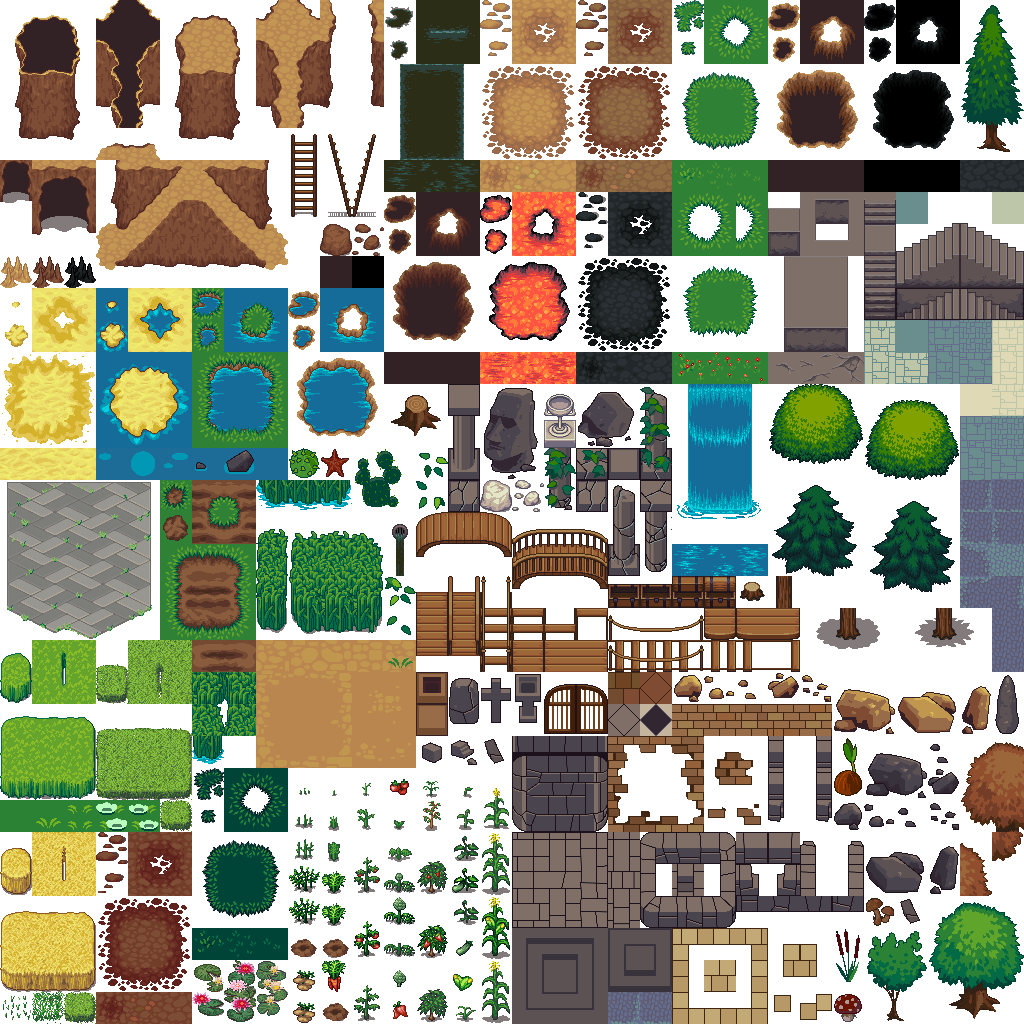
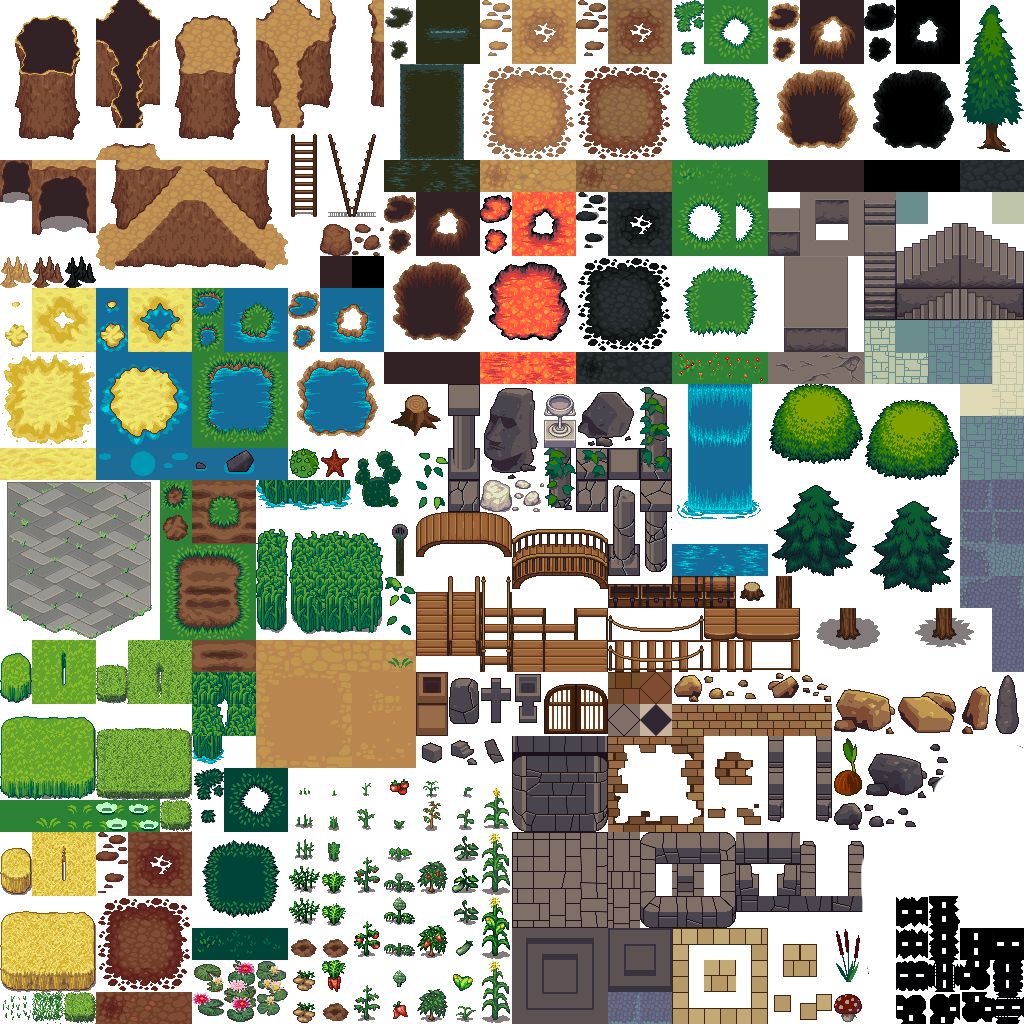
New Map - Attacking fortresses

Changed region(s): [[0.8438, 0.7188, 1.0, 1.0]]

diff --git a/core/assets/tiles.tsx b/core/assets/tiles.tsx
@@ -1,0 +1,4 @@
+<?xml version="1.0" encoding="UTF-8"?>
+<tileset version="1.2" tiledversion="1.3.1" name="tiles" tilewidth="32" tileheight="32" tilecount="1024" columns="32">
+ <image source="tiles.png" width="1024" height="1024"/>
+</tileset>

diff --git a/core/src/com/earlybird/kroygame/screens/MainGameScreen.java b/core/src/com/earlybird/kroygame/screens/MainGameScreen.java
@@ -1,5 +1,6 @@
 package com.earlybird.kroygame.screens;
 
+import java.util.ArrayList;
 import java.util.List;
 
 import com.badlogic.gdx.Gdx;
@@ -10,6 +11,7 @@ import com.badlogic.gdx.graphics.GL20;
 import com.badlogic.gdx.graphics.OrthographicCamera;
 import com.badlogic.gdx.graphics.Texture;
 import com.badlogic.gdx.graphics.g2d.Sprite;
+import com.badlogic.gdx.graphics.g2d.TextureRegion;
 import com.badlogic.gdx.maps.tiled.TiledMap;
 import com.badlogic.gdx.maps.tiled.TmxMapLoader;
 import com.badlogic.gdx.maps.tiled.renderers.OrthogonalTiledMapRenderer;
@@ -30,6 +32,7 @@ import com.earlybird.kroygame.Map;
 import com.earlybird.kroygame.Resources;
 import com.earlybird.kroygame.SelectedEngines;
 import com.earlybird.kroygame.Engine;
+import com.earlybird.kroygame.Fortresses;
 
 
 public class MainGameScreen extends DefaultScreen {
@@ -40,6 +43,7 @@ public class MainGameScreen extends DefaultScreen {
 	private Stage gameStage; //Used as a base to add all sprites to the Game using the scene2D library
 	private Engines engines; //Used to group all fire engines
 	private SelectedEngines selectedEngines; //Allows user to select more than one engine at a time
+	private Fortresses fortresses;
 	
 	
 	private TiledMap map;
@@ -68,28 +72,31 @@ public class MainGameScreen extends DefaultScreen {
 		camera = new OrthographicCamera();
 		camera.setToOrtho(false, scrWidth, scrHeight);
 		camera.update();
-		map = new TmxMapLoader().load("testroadmap.tmx");
+		//map = new TmxMapLoader().load("testroadmap.tmx");
+		map = new TmxMapLoader().load("MapOfYork.tmx");
 		renderer = new OrthogonalTiledMapRenderer(map);
 		roadmap = new Map(this.map);
 		
 		engines = new Engines();
 		selectedEngines= new SelectedEngines();
+		fortresses = new Fortresses();
 		
 		addFireTruck(4,1);
 		addFireTruck(4,12);
 		
-		addFortress(17,6);
+		addFortress(17,6,game.res.fortress1);
 		addFireStation(25,13);
 		
 		gameStage.addActor(engines);
 		gameStage.addActor(selectedEngines);
+		gameStage.addActor(fortresses);
 		
 	}
 
-	public void addFortress(int xTilePos, int yTilePos) { //Renders a Fortress at a specified XY location with a Texture allocated with in Resources.jv
-		Fortress fortress1 = new Fortress(game.res.fortress1);
-		fortress1.setPosition(xTilePos * Resources.TILE_SIZE, yTilePos * Resources.TILE_SIZE);
-		gameStage.addActor(fortress1);
+	public void addFortress(int xTilePos, int yTilePos, TextureRegion texture) { //Renders a Fortress at a specified XY location with a Texture allocated with in Resources.jv
+		Fortress fortress = new Fortress(texture);
+		fortress.setPosition(xTilePos * Resources.TILE_SIZE, yTilePos * Resources.TILE_SIZE);
+		fortresses.addActor(fortress);
 	}
 	
 	public void addFireStation(int xTilePos, int yTilePos) { //Renders a Firestation at a specified XY location with a Texture allocated with in Resources.jv
@@ -110,6 +117,27 @@ public class MainGameScreen extends DefaultScreen {
 		engine.getChild(2).setPosition(0, -10);
 		engine.setPosition(xTilePos * Resources.TILE_SIZE, yTilePos * Resources.TILE_SIZE);
 		engines.addActor(engine);
+	}
+	
+	public List<FireEngine> getEnginesInRange(Group Engines, int leftX, int rightX, int topY, int bottomY){
+		List<FireEngine> enginesInRange = new ArrayList<FireEngine>();
+		for(int i=0; i<Engines.getChildren().size; i++) {
+			Engine thisEngine = (Engine) Engines.getChild(i);
+			FireEngine thisFireEngine = (FireEngine)thisEngine.getChild(0);
+			if(thisFireEngine.isEngineinRange(leftX,rightX,topY,bottomY)){
+				enginesInRange.add(thisFireEngine);
+			}
+		}
+		return enginesInRange;
+	}
+	
+	public void attackFortress(Fortress fortress, FireEngine engine) {
+		if(fortress.getX() >= engine.getX()-engine.getRange() && fortress.getX()<=engine.getX()+engine.getRange() && fortress.getY()>=engine.getY()-engine.getRange() && fortress.getY()<=engine.getY()+engine.getRange()) {
+			if(engine.getCurrentHealth()!=0) {
+				engine.setCurrentVolume(engine.getCurrentVolume()-engine.getDamage());
+				fortress.setCurrentHealth(fortress.getCurrentHealth()-engine.getDamage());
+			}
+		}
 	}
 	
 	public void update(float delta) {
@@ -229,7 +257,6 @@ public class MainGameScreen extends DefaultScreen {
 //							replace 0.2f with engine's speed
 //							setmovelocation of fireengine to lasttouch
 //							or set list of actions
-							write("gg");
 							List<Action> actions = this.roadmap.pathfind(truckcoords, this.lastTouch, 0.2f);
 							for (Action a : actions) {
 								sequence.addAction(a);
@@ -240,6 +267,9 @@ public class MainGameScreen extends DefaultScreen {
 //						------------
 					}
 				}
+				//else if(isFortressClicked()) {
+					
+				//}
 				//move actors in selectedEngines to this.firstTouch
 				//set move location for all actors in selectedEngines
 				return true;

diff --git a/core/src/com/earlybird/kroygame/FireEngine.java b/core/src/com/earlybird/kroygame/FireEngine.java
@@ -21,6 +21,13 @@ public class FireEngine extends Unit {
 		isSelected = false;
 		this.waterBar = new StatBar(40,5, this.getMaxVolume(), Color.BLACK, Color.BLUE, Color.BLUE);
 	}
+	
+	public boolean isEngineinRange(int leftX, int rightX, int topY, int bottomY) {
+		if(this.getX()>=leftX && this.getX()<=rightX && this.getY()>=bottomY && this.getY()<=topY) {
+			return true;
+		}
+		return false;
+	}
 
 	//Getters and Setters
 	

diff --git a/core/src/com/earlybird/kroygame/Entity.java b/core/src/com/earlybird/kroygame/Entity.java
@@ -4,6 +4,7 @@ import com.badlogic.gdx.graphics.g2d.Batch;
 import com.badlogic.gdx.graphics.g2d.Sprite;
 import com.badlogic.gdx.graphics.g2d.TextureRegion;
 import com.badlogic.gdx.scenes.scene2d.Actor;
+import com.badlogic.gdx.scenes.scene2d.InputEvent;
 import com.badlogic.gdx.scenes.scene2d.Touchable;
 
 //Used to import everything needed to port items over

diff --git a/core/src/com/earlybird/kroygame/Fortress.java b/core/src/com/earlybird/kroygame/Fortress.java
@@ -2,6 +2,7 @@ package com.earlybird.kroygame;
 
 import com.badlogic.gdx.graphics.g2d.Sprite;
 import com.badlogic.gdx.graphics.g2d.TextureRegion;
+import com.badlogic.gdx.scenes.scene2d.InputEvent;
 
 public class Fortress extends Entity{
 

diff --git a/core/src/com/earlybird/kroygame/Fortresses.java b/core/src/com/earlybird/kroygame/Fortresses.java
@@ -1,0 +1,11 @@
+package com.earlybird.kroygame;
+
+import com.badlogic.gdx.scenes.scene2d.Group;
+
+public class Fortresses extends Group{
+
+	public Fortresses() {
+		
+	}
+	
+}
